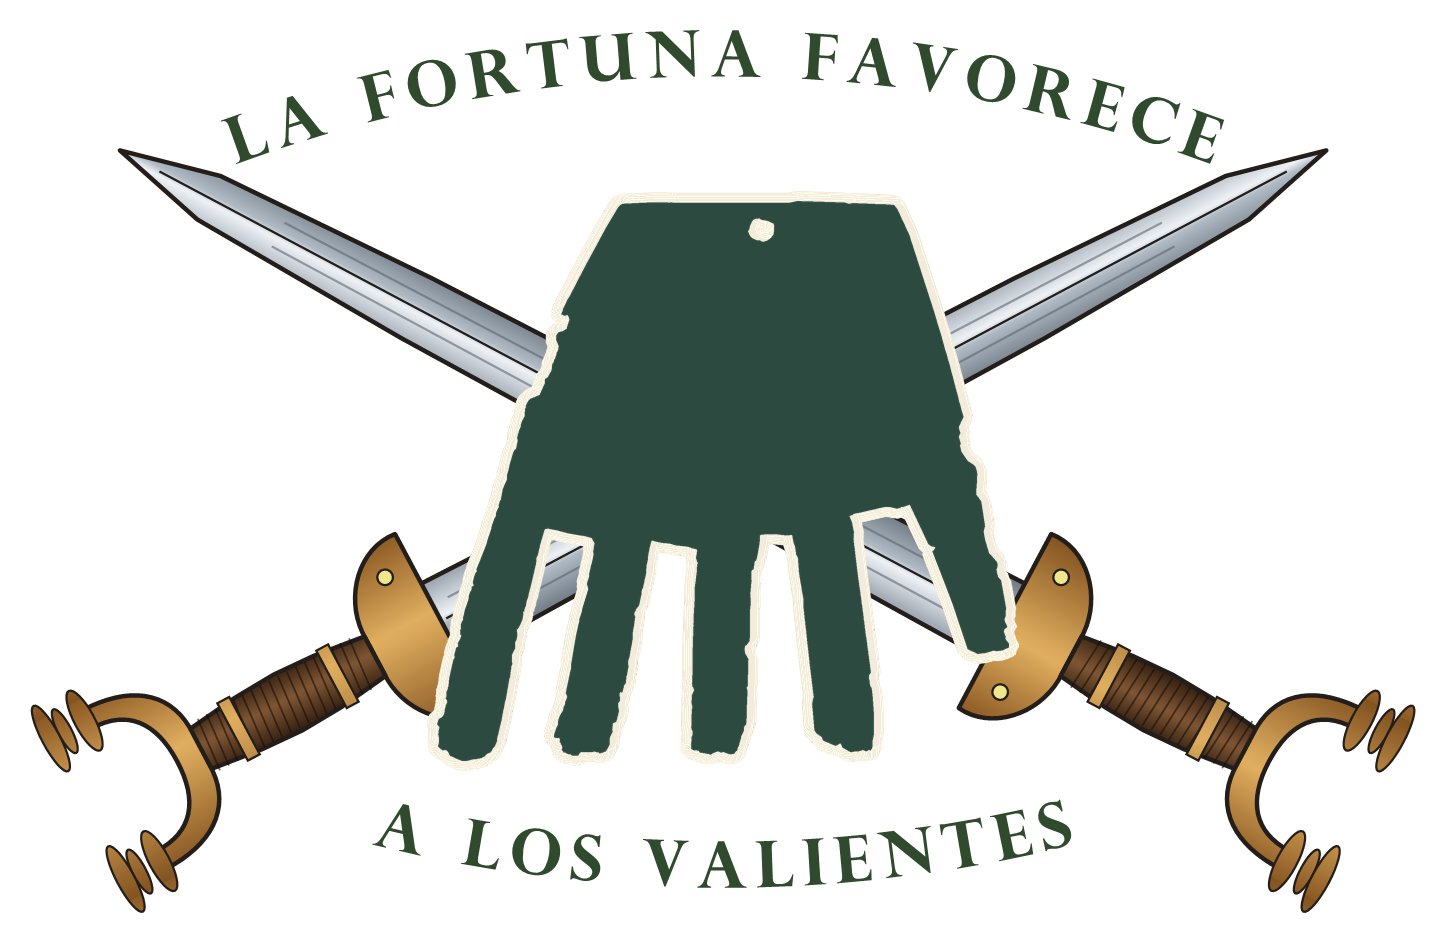
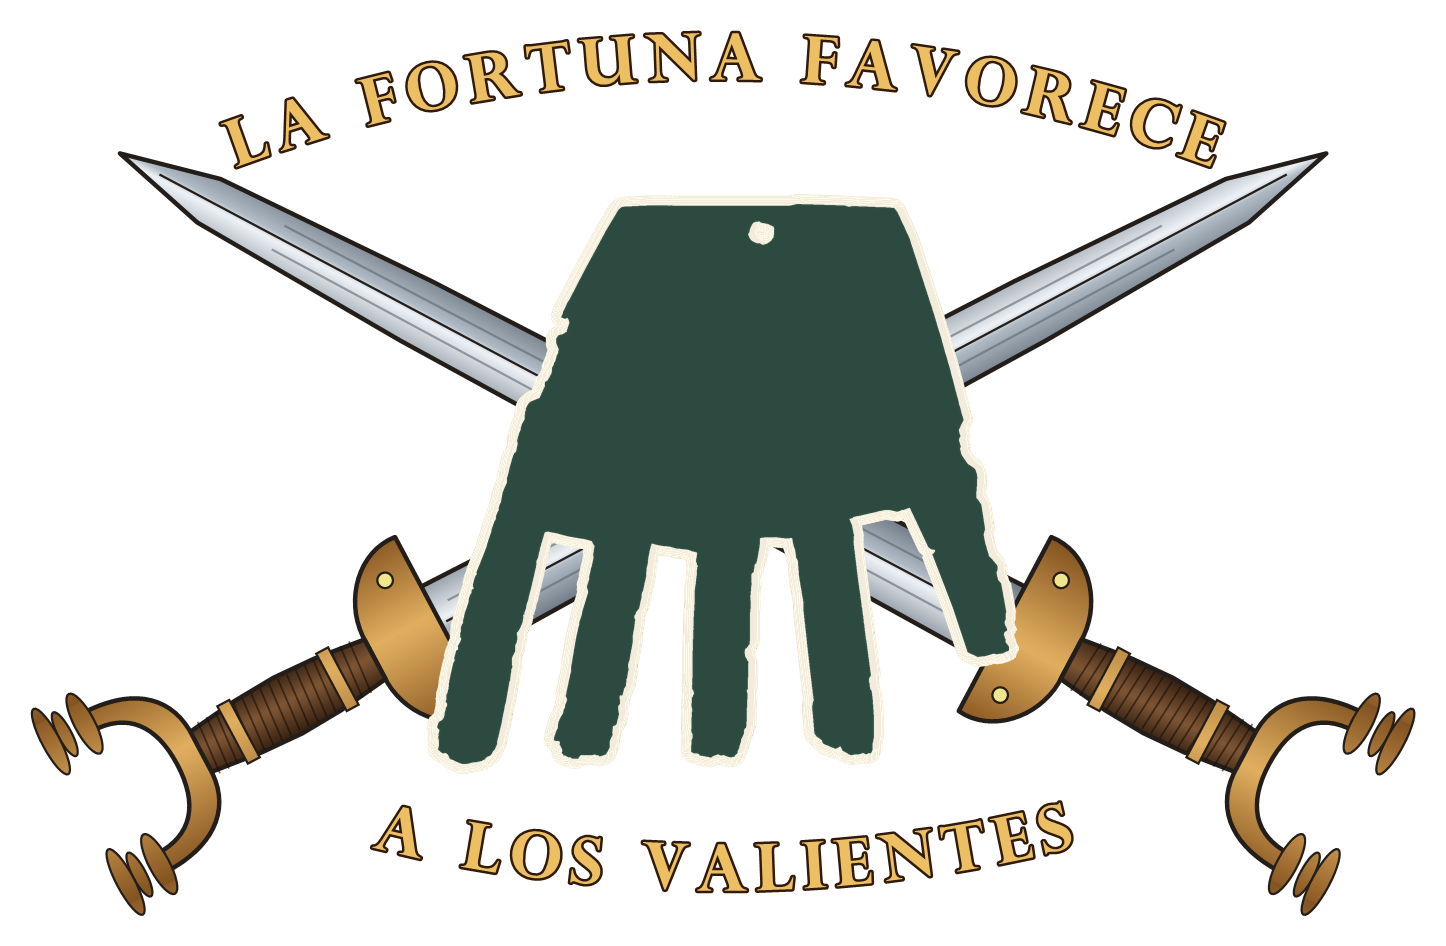
Retos en el valle: fondo oscuro con fuego animado y lema en dorado

diff --git a/js/app.js b/js/app.js
@@ -17,6 +17,7 @@ function mostrarPantalla(idPantalla) {
     pantalla.hidden = pantalla.id !== idDestino;
   });
 
+  actualizarModoRetos(idDestino);
   window.scrollTo(0, 0);
 }
 
@@ -1494,7 +1495,157 @@ function prepararBotonSubir() {
 /**
  * Punto de entrada de la aplicación.
  */
+/* ---------- RETOS EN EL VALLE: fondo oscuro y fuego animado abajo ---------- */
+
+// El fuego se calcula en una rejilla pequeña (cada celda, unos 3 px) y el navegador la amplía suavizada.
+const FUEGO_PX_POR_CELDA = 4;
+const FUEGO_MAXIMO_CELDAS_ANCHO = 200;   // en pantallas anchas, celdas algo mayores para no ir lento
+const FUEGO_CELDAS_ALTO = 72;
+const FUEGO_RUIDO_POR_PX = 0.043;        // grosor de las llamas: el mismo en cualquier ancho de pantalla
+const FUEGO_PASOS_COLOR = [              // [calor, rojo, verde, azul, opacidad]: rojo oscuro -> naranja -> amarillo
+  [0, 70, 5, 0, 0], [0.2, 170, 25, 0, 140], [0.45, 235, 85, 5, 225],
+  [0.7, 255, 150, 20, 255], [0.9, 255, 205, 70, 255], [1, 255, 235, 150, 255],
+];
+
+const fuego = { lienzo: null, contexto: null, imagen: null, ancho: 0, alto: 0, escalaX: 0, inicio: 0, animacion: null, permutacion: null };
+
+/** Tabla de números al azar para el ruido (se crea una vez). */
+function crearPermutacion() {
+  const numeros = [...Array(256).keys()];
+  for (let i = numeros.length - 1; i > 0; i--) {
+    const j = Math.floor(Math.random() * (i + 1));
+    [numeros[i], numeros[j]] = [numeros[j], numeros[i]];
+  }
+  return Uint8Array.from({ length: 512 }, (_, i) => numeros[i & 255]);
+}
+
+/** Ruido suave en (x, y): valores entre 0 y 1 que cambian poco a poco. */
+function ruidoSuave(x, y) {
+  const p = fuego.permutacion;
+  const xi = Math.floor(x), yi = Math.floor(y);
+  const u = (x - xi) * (x - xi) * (3 - 2 * (x - xi));
+  const v = (y - yi) * (y - yi) * (3 - 2 * (y - yi));
+  const valor = (a, b) => p[(p[a & 255] + b) & 255] / 255;
+  const a = valor(xi, yi), b = valor(xi + 1, yi), c = valor(xi, yi + 1), d = valor(xi + 1, yi + 1);
+  return a + (b - a) * u + (c - a) * v + (a - b - c + d) * u * v;
+}
+
+/** Ruido con varios niveles de detalle (da los bordes rotos de las llamas). */
+function ruidoCapas(x, y, capas = 4) {
+  let suma = 0, amplitud = 0.5, frecuencia = 1;
+  for (let capa = 0; capa < capas; capa++) {
+    suma += amplitud * ruidoSuave(x * frecuencia, y * frecuencia);
+    frecuencia *= 2;
+    amplitud *= 0.5;
+  }
+  return suma;
+}
+
+/** Color [r, g, b, opacidad] para un calor entre 0 y 1. */
+function colorFuego(calor) {
+  for (let k = 1; k < FUEGO_PASOS_COLOR.length; k++) {
+    const [c1, ...desde] = FUEGO_PASOS_COLOR[k - 1];
+    const [c2, ...hasta] = FUEGO_PASOS_COLOR[k];
+    if (calor <= c2) {
+      const f = (calor - c1) / (c2 - c1);
+      return desde.map((valor, i) => valor + (hasta[i] - valor) * f);
+    }
+  }
+  return FUEGO_PASOS_COLOR[FUEGO_PASOS_COLOR.length - 1].slice(1);
+}
+
+/** Altura de las llamas en cada columna: unas zonas arden más alto que otras y van cambiando. */
+function alturaZonaFuego(xRuido, segundos) {
+  return 0.55 + 0.6 * ruidoCapas(xRuido * 0.3 + 40, segundos * 0.3, 3);
+}
+
+/** Calor de una celda: ruido que sube y se ondula, más fuerte abajo. */
+function calorFuego(xRuido, altura, segundos, alturaZona) {
+  const ondulacion = ruidoCapas(xRuido * 0.5 + 13, altura * 1.6 - segundos * 0.8, 2) - 0.5;
+  const llama = ruidoCapas(xRuido + ondulacion * 2.2 + altura * 0.8, altura * 2.4 - segundos * 2.2);
+  const calor = (llama - 0.32) * 2.3 + (1 - altura / alturaZona) * 1.1 - 0.55;
+  return Math.max(0, Math.min(1, calor));
+}
+
+/** Ajusta la rejilla al tamaño del lienzo en pantalla. */
+function ajustarTamanoFuego() {
+  const anchoPantalla = fuego.lienzo.clientWidth || window.innerWidth;
+  fuego.ancho = Math.min(FUEGO_MAXIMO_CELDAS_ANCHO, Math.max(60, Math.round(anchoPantalla / FUEGO_PX_POR_CELDA)));
+  fuego.alto = FUEGO_CELDAS_ALTO;
+  fuego.escalaX = (anchoPantalla / fuego.ancho) * FUEGO_RUIDO_POR_PX;
+  fuego.lienzo.width = fuego.ancho;
+  fuego.lienzo.height = fuego.alto;
+  fuego.imagen = fuego.contexto.createImageData(fuego.ancho, fuego.alto);
+}
+
+/** Dibuja un fotograma del fuego. */
+function dibujarFuego(segundos) {
+  const datos = fuego.imagen.data;
+  const alturas = Array.from({ length: fuego.ancho }, (_, x) => alturaZonaFuego(x * fuego.escalaX, segundos));
+  for (let y = 0; y < fuego.alto; y++) {
+    const altura = 1 - y / (fuego.alto - 1);   // 0 abajo, 1 arriba
+    for (let x = 0; x < fuego.ancho; x++) {
+      const calor = calorFuego(x * fuego.escalaX, altura, segundos, alturas[x]);
+      const [r, g, b, opacidad] = colorFuego(calor);
+      const i = (y * fuego.ancho + x) * 4;
+      datos[i] = r;
+      datos[i + 1] = g;
+      datos[i + 2] = b;
+      datos[i + 3] = calor < 0.05 ? 0 : opacidad;
+    }
+  }
+  fuego.contexto.putImageData(fuego.imagen, 0, 0);
+}
+
+/** Bucle de la animación (unos 24 fotogramas por segundo: suficiente para el fuego y gasta menos). */
+function animarFuego(ahora) {
+  if (!fuego.ultimo || ahora - fuego.ultimo > 42) {
+    fuego.ultimo = ahora;
+    dibujarFuego((ahora - fuego.inicio) / 1000);
+  }
+  fuego.animacion = requestAnimationFrame(animarFuego);
+}
+
+function encenderFuego() {
+  if (!fuego.lienzo || fuego.animacion) return;
+  ajustarTamanoFuego();
+  const sinMovimiento = window.matchMedia('(prefers-reduced-motion: reduce)').matches;
+  if (sinMovimiento) {
+    dibujarFuego(0);   // quien pide menos animaciones ve el fuego quieto
+    return;
+  }
+  fuego.inicio = performance.now();
+  fuego.animacion = requestAnimationFrame(animarFuego);
+}
+
+function apagarFuego() {
+  if (fuego.animacion) cancelAnimationFrame(fuego.animacion);
+  fuego.animacion = null;
+}
+
+/** Al entrar en #retos: fondo oscuro y fuego; al salir, todo como antes y la animación parada. */
+function actualizarModoRetos(idPantalla) {
+  const enRetos = idPantalla === 'retos';
+  document.body.classList.toggle('modo-retos', enRetos);
+  if (enRetos) encenderFuego();
+  else apagarFuego();
+}
+
+function prepararFuegoRetos() {
+  fuego.lienzo = document.getElementById('retos-fuego');
+  if (!fuego.lienzo) return;
+  fuego.contexto = fuego.lienzo.getContext('2d');
+  fuego.permutacion = crearPermutacion();
+  window.addEventListener('resize', () => {
+    if (document.body.classList.contains('modo-retos')) {
+      ajustarTamanoFuego();
+      if (!fuego.animacion) dibujarFuego(0);
+    }
+  });
+}
+
 function iniciarApp() {
+  prepararFuegoRetos();
   pintarCategorias();
   prepararContador();
   prepararBuscador();

diff --git a/css/styles.css b/css/styles.css
@@ -53,6 +53,11 @@
   --color-desplegable-retos: #3A3330;       /* RETOS EN EL VALLE: oscuro, que imponga */
   --color-desplegable-retos-letra: #F5EBDD;
   --ancho-maximo-emblema-retos: 36rem;      /* emblema de la pantalla de retos */
+  --color-retos-fondo: #1c1512;             /* fondo oscuro de la pantalla de retos */
+  --color-retos-brasa: #2e140b;             /* abajo, rojizo de brasa */
+  --color-retos-titulo: #f3e3c3;
+  --color-retos-cobre: #b5642a;             /* rayas bajo el título */
+  --alto-fuego-retos: min(38vh, 21rem);     /* alto de la franja de fuego */
   --color-desplegable-arboles: #B6D7A8;
   --ancho-maximo-mapa-comarcas: 40rem; /* mapa de comarcas en REGIONES, VALLES Y RÍOS */
   --opacidad-resalte-comarca: 0.45;    /* cuánto se ilumina la comarca bajo el ratón */
@@ -1023,6 +1028,54 @@ body {
   line-height: 1.6;
   text-align: justify;
   hyphens: auto;
+}
+
+/* ---------- RETOS EN EL VALLE: fondo oscuro con fuego (clase .modo-retos en body, la pone app.js) ---------- */
+body.modo-retos {
+  background: linear-gradient(180deg, var(--color-retos-fondo) 0%, var(--color-retos-fondo) 60%, var(--color-retos-brasa) 100%) fixed;
+}
+
+/* El contenido, por encima del fuego */
+.modo-retos .contenido {
+  position: relative;
+  z-index: 1;
+}
+
+.modo-retos #retos {
+  padding-bottom: var(--alto-fuego-retos);
+}
+
+.modo-retos #retos .pantalla__titulo {
+  color: var(--color-retos-titulo);
+}
+
+.modo-retos #retos .linea-titulo {
+  border-top-color: var(--color-retos-cobre);
+}
+
+.modo-retos #retos .info-introduccion {
+  box-shadow: 0 0 1.5rem rgba(255, 120, 40, 0.35);
+}
+
+/* Brillo cálido muy suave detrás del emblema */
+.modo-retos .retos-emblema {
+  background: radial-gradient(closest-side, rgba(255, 150, 60, 0.22) 0%, rgba(255, 120, 40, 0.1) 60%, rgba(0, 0, 0, 0) 100%);
+}
+
+.retos-fuego {
+  display: none;
+  position: fixed;
+  left: 0;
+  bottom: 0;
+  z-index: 0;
+  width: 100%;
+  height: var(--alto-fuego-retos);
+  pointer-events: none;
+  filter: blur(1.4px);
+}
+
+.modo-retos .retos-fuego {
+  display: block;
 }
 
 /* Emblema de RETOS EN EL VALLE (pantalla #retos) */

diff --git a/index.html b/index.html
@@ -299,7 +299,7 @@
 
       <!-- Emblema: la mano de Irulegi con dos espadas de antenas cruzadas y el lema -->
       <figure class="retos-emblema">
-        <img src="img/emblema-retos.png" alt="Emblema de los retos: silueta de la mano de Irulegi con dos espadas de antenas cruzadas por detrás y el lema «La fortuna favorece a los valientes»" width="1446" height="943">
+        <img src="img/emblema-retos.png" alt="Emblema de los retos: silueta de la mano de Irulegi con dos espadas de antenas cruzadas por detrás y el lema «La fortuna favorece a los valientes»" width="1446" height="946">
       </figure>
 
       <hr class="linea-titulo">
@@ -4078,6 +4078,9 @@
     </section>
 
   </main>
+
+  <!-- Fuego animado del fondo de RETOS EN EL VALLE (solo se ve en esa pantalla; lo dibuja app.js) -->
+  <canvas class="retos-fuego" id="retos-fuego" aria-hidden="true"></canvas>
 
   <!-- Flecha flotante para volver al principio de la categoría (la muestra app.js al bajar) -->
   <button type="button" class="subir" id="boton-subir" aria-label="Volver al principio" title="Volver al principio" hidden>▲</button>

diff --git a/CLAUDE.md b/CLAUDE.md
@@ -75,10 +75,13 @@ Todas las excursiones de las 4 categorías tienen **casilla de completada** (ver
        - El reloj de sanfermin.com es un reloj físico; su web no ofrece datos ni widget, así que la cuenta se calcula en el navegador (`estadoSanfermines`, `actualizarRelojSanfermines`, cada segundo).
      - Cada enlace es un recuadro `.enlace-web` con título y una línea de descripción, y se abre en otra pestaña.
   6. Debajo de los tres desplegables, **RETOS EN EL VALLE, SOLO PARA PROFESIONALES** (pedido por el propietario): tiene el aspecto de un desplegable más (`a.desplegable.desplegable--retos`, fondo oscuro `--color-desplegable-retos` #3A3330 y letra clara), con una **calavera** a cada lado (`img/iconos/calavera.svg`, calavera con tibias cruzadas dibujada para la web, no un emoticono) y una flecha → a la derecha en vez de la que gira. No se abre: lleva a su propia pantalla, **`#retos`** (flecha de volver a `#completadas`, el mismo título y la línea bajo el título). Contenido de `#retos`, de arriba abajo:
-     - **Emblema** (`figure.retos-emblema`, `img/emblema-retos.png`, 1446 × 943, fondo transparente, ancho máximo `--ancho-maximo-emblema-retos`, 36rem, centrado): la **silueta de la mano de Irulegi** (sacada de la foto del propietario, en verde bronce con pátina y con el agujero de arriba), con **dos espadas de antenas nuevas de tipo Echauri** cruzadas por detrás, a unos 28° sobre la horizontal, como los sables de una bandera pirata (hoja de hierro, guarda de bronce en media luna, empuñadura forrada y pomo de antenas con carretes), y el lema en arco: «LA FORTUNA FAVORECE» arriba y «A LOS VALIENTES» abajo, en Perpetua Titling MT negrita. Se dibujó con `emblema-retos.ps1` y `emblema-lema.ps1` de la carpeta temporal.
+     - **Emblema** (`figure.retos-emblema`, `img/emblema-retos.png`, 1446 × 943, fondo transparente, ancho máximo `--ancho-maximo-emblema-retos`, 36rem, centrado): la **silueta de la mano de Irulegi** (sacada de la foto del propietario, en verde bronce con pátina y con el agujero de arriba), con **dos espadas de antenas nuevas de tipo Echauri** cruzadas por detrás, a unos 28° sobre la horizontal, como los sables de una bandera pirata (hoja de hierro, guarda de bronce en media luna, empuñadura forrada y pomo de antenas con carretes), y el lema en arco: «LA FORTUNA FAVORECE» arriba y «A LOS VALIENTES» abajo, en Perpetua Titling MT negrita, **dorado con contorno oscuro** (para leerse sobre el fondo oscuro; la versión anterior, en verde, ya no se usa). Se generó con la variable `LEMA_DORADO` del script. Se dibujó con `emblema-retos.ps1` y `emblema-lema.ps1` de la carpeta temporal.
      - Línea (`hr.linea-titulo`).
      - **Recuadro punteado** (`.lista-excursiones.info-introduccion`, como la introducción de INFORMACIÓN DE INTERÉS) con la presentación de los retos, del propietario: retos de nivel profesional en las inmediaciones del **Valle de Aranguren**, simbólicos o de preparación física, sigilo y paso firme, ampliable a otras zonas; termina en «¡Ad Astra!» (se quitó el punto tras la exclamación).
      - Los retos en sí los irá añadiendo el propietario.
+   - **Fondo oscuro con fuego** (pedido por el propietario): al entrar en `#retos`, `mostrarPantalla` llama a `actualizarModoRetos`, que pone la clase **`modo-retos`** en `body` (fondo casi negro que se vuelve rojizo de brasa abajo, `--color-retos-fondo` y `--color-retos-brasa`; título color crema `--color-retos-titulo`; rayas cobre `--color-retos-cobre`; brillo naranja alrededor del recuadro y uno muy suave detrás del emblema) y enciende el **fuego animado**; al salir se quita todo y la animación se para. La cabecera de la web no cambia.
+     - El fuego es un `canvas#retos-fuego` fijo abajo (alto `--alto-fuego-retos`, `min(38vh, 21rem)`), por detrás del contenido (`.modo-retos .contenido` va con `z-index: 1`), y `#retos` lleva ese mismo hueco abajo para poder ver el fuego bajo el texto. No usa imágenes ni nada externo: lo calcula `app.js` con un ruido suave que sube y se ondula, en una rejilla pequeña (celdas de unos 4 px, como mucho 200 × 72) que el navegador amplía y difumina (`filter: blur`). Colores de rojo oscuro a naranja y amarillo (`FUEGO_PASOS_COLOR`); las llamas tienen el mismo grosor en cualquier ancho (`FUEGO_RUIDO_POR_PX`); unos 24 fotogramas por segundo. Si el dispositivo pide reducir animaciones (`prefers-reduced-motion`), el fuego se ve quieto. Funciones: `crearPermutacion`, `ruidoSuave`, `ruidoCapas`, `colorFuego`, `alturaZonaFuego`, `calorFuego`, `ajustarTamanoFuego`, `dibujarFuego`, `animarFuego`, `encenderFuego`, `apagarFuego`, `actualizarModoRetos` y `prepararFuegoRetos`.
+     - El propietario pasó una foto de fuego como referencia; no se usó la foto (probablemente con derechos), solo como modelo del aspecto.
 - Los textos del propietario llevan pequeñas correcciones ortográficas aceptadas ("a la web", "excursiones", "¡suerte y disfrutad…!", "Wikiloc").
 
 ### GUÍAS DE CAMPO (`#guias`)
@@ -316,7 +319,7 @@ Los archivos nuevos deben seguir esta estructura. Si hace falta otra carpeta o a
 - Nombres: `NOMBRES_CORREGIDOS` y `textoExcursion(categoria, excursion)` (ver "Formato de los nombres de las excursiones").
 - Compartir: `URL_WEB`, `EMOJI_CATEGORIA`, `EMOJI_DATO`, `textoCompartir(...)`, `compartirExcursion(...)` y `crearBotonCompartir(...)` (ver "Botón COMPARTIR").
 - Cerrar y subir: `crearBotonCerrar(desplegable)`, `prepararCierresGuia()`, `DISTANCIA_FLECHA_SUBIR`, `actualizarBotonSubir()` y `prepararBotonSubir()`.
-- `iniciarApp()` llama, en orden, a `pintarCategorias()`, `prepararContador()`, `prepararBuscador()`, `prepararCarruseles()`, `prepararMapaLista()`, `prepararMapasPulsables()`, `prepararCierresGuia()`, `prepararBuscadorEspecies()`, `prepararBotonSubir()`, `iniciarRelojSanfermines()` y `mostrarPantalla(...)`.
+- `iniciarApp()` llama, en orden, a `prepararFuegoRetos()`, `pintarCategorias()`, `prepararContador()`, `prepararBuscador()`, `prepararCarruseles()`, `prepararMapaLista()`, `prepararMapasPulsables()`, `prepararCierresGuia()`, `prepararBuscadorEspecies()`, `prepararBotonSubir()`, `iniciarRelojSanfermines()` y `mostrarPantalla(...)`.
 - `GRUPOS_NUEVOS`: grupos que no están en la hoja Resumen (de momento, "Viaje veraniego" en Lugares), con su color.
 - `FICHAS_CON_FOTO` y `crearContenidoFoto(...)`: fichas que solo muestran una foto con pie (Menorca).
 - Los desplegables y las fichas usan `<details>`/`<summary>`. Los textos se insertan con `textContent`, nunca con `innerHTML`.
